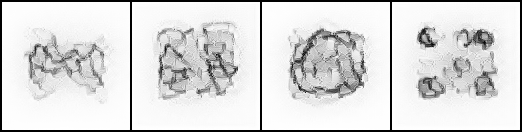
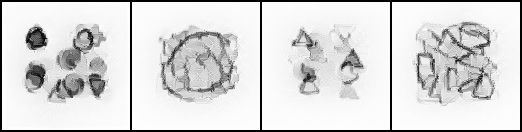
Using CLIP for text embeddings, training epoch 2 minutes and added raw sentences from dataloader

diff --git a/train.py b/train.py
@@ -24,7 +24,7 @@ def main():
         json.dump(tokeniser.vocab, output)
 
     dataset = SentenceToImageDataset("expanded_sentence_image_relationships.csv", tokeniser)
-    dataloader = DataLoader(dataset, batch_size=32, shuffle=True, num_workers=4)
+    dataloader = DataLoader(dataset, batch_size=32, shuffle=True, num_workers=6, pin_memory=True, persistent_workers=True)
 
     device = torch.device("cuda" if torch.cuda.is_available() else "cpu")
     model = TextToImageTransformer(vocab_size=len(tokeniser.vocab)).to(device)
@@ -33,7 +33,7 @@ def main():
     perceptual_loss = PerceptualLoss().to(device)
     clip_loss = CLIPLoss(device).to(device)
 
-    l1_weighting = 0.1 # L1 loss weighting 
+    l1_weighting = 0.0 # L1 loss weighting 
     perceptual_loss_weighting = 1.0 # Perceptual loss weighting
     clip_loss_weighting = 1.0 # Clip loss weighting
     
@@ -58,16 +58,17 @@ def main():
             tokenised_text = data_batch["tokenised_text"].to(device)
             real_left_image = data_batch["left_image"].to(device)
             real_right_image = data_batch["right_image"].to(device)
+            raw_sentences_text = data_batch["raw_sentence"]
 
             predicted_left_image, predicted_right_image = model(tokenised_text)
             l1 = nn.functional.l1_loss(predicted_left_image, real_left_image) + nn.functional.l1_loss(predicted_right_image, real_right_image)
             p_loss = perceptual_loss(predicted_left_image, real_left_image) + perceptual_loss(predicted_right_image, real_right_image)
-            c_loss = clip_loss(predicted_left_image, real_left_image) + clip_loss(predicted_right_image, real_right_image)
+            c_loss = clip_loss(predicted_left_image, raw_sentences_text) + clip_loss(predicted_right_image, raw_sentences_text)
             total_batch_loss = l1_weighting * l1 + perceptual_loss_weighting * p_loss + clip_loss_weighting * c_loss
 
             optimizer.zero_grad()
             total_batch_loss.backward()
-            nn.utils.clip_grad_norm_(model.parameters(), max_norm=1.0) # then max_norm = 5
+            nn.utils.clip_grad_norm_(model.parameters(), max_norm=1.0) # try with norm = 5.0 next
             optimizer.step()
 
             if batch_index % 100 == 0:
@@ -98,14 +99,15 @@ if __name__ == "__main__":
 
 # Hyperparamters to try in order
 
+#Experiment	λ_l1	λ_p	    λ_c
+#Baseline	0.1	    1.0	    1.0	    Current setup
+#1	        0.0	    1.0	    0.0	    No CLIP
+
+# clip makes images slightly clearer
+
 # nn.utils.clip_grad_norm_(model.parameters(), max_norm=5.0) 
 # weight_learner = optim.Adam(model.parameters(), lr=0.0002, betas=(0.5, 0.999))
 # scheduler = optim.lr_scheduler.StepLR(weight_learner, step_size=20, gamma=0.8)
 # scheduler.step()
 
-#Experiment	λ_l1	λ_p	    λ_c
-#Baseline	0.1	    1.0	    1.0	    Current setup
-#A          0.0     1.0     1.0     Without any L1
-#B	        0.3	    1.0	    0.5	    Reduce CLIP
-#C	        0.5	    1.0	    0.8	    Try more L1
-#D	        0.1	    2.0	    0.5	    Much more Perceptual
+# Check that CLIP and VGG are actually doing something meaningful

diff --git a/loss_functions.py b/loss_functions.py
@@ -68,19 +68,24 @@ class CLIPLoss(nn.Module):
         for param in self.clip_model.parameters():
             param.requires_grad = False
 
-    def forward(self, predicted, real):
-        predicted = convert_to_grayscale(predicted)
-        real = convert_to_grayscale(real)
-        combined_batch = torch.cat([predicted, real], dim=0)
+    def forward(self, generated_images, text_descriptions):
+        resized = nn.functional.intepolate(generated_images, size=(224, 224), mode='bilinear', align_corners=False)
+        norm_images = normalize_images(resized, self.CLIP_MEAN, self.CLIP_STD)
         
-        # Resizing to fit CLIP
-        resized = nn.functional.interpolate(combined_batch, size=(224, 224), mode='bilinear', align_corners=False)
-        normalized_images = normalize_images(resized, self.CLIP_MEAN, self.CLIP_STD)
-
-        # Generate Embeddings
-        embeddings = self.clip_model.encode_image(normalized_images)
-        predicted_embeddings, real_embeddings = torch.split(embeddings, predicted.size(0), dim=0)
+        text_tokens = clip.tokenize(text_descriptions, truncate=True).to(generated_images.device)
         
-        # Calculate cosine similarity loss
-        cosine_similarity = nn.functional.cosine_similarity(predicted_embeddings, real_embeddings, dim=-1)
-        return (1 - cosine_similarity).mean()
+        image_embeddings = self.clip_model.encode_image(norm_images)
+        text_embeddings = self.clip_model.encode_text(text_tokens)
+        
+        image_embeddings = image_embeddings / image_embeddings.norm(dim=-1, keepdim=True)
+        text_embeddings = text_embeddings / text_embeddings.norm(dim=-1, keepdim=True)
+        
+        # Calculate cosine similarity
+        clip_softmax_scaler = self.clip_model.logit_scale.exp()
+        cosine_similarities = clip_softmax_scaler * image_embeddings @ text_embeddings.t()
+        
+        # Symmetric contrastive loss
+        targets = torch.arange(len(generated_images), device=generated_images.device)
+        image_loss = nn.functional.cross_entropy(cosine_similarities, targets)
+        text_loss = nn.functional.cross_entropy(cosine_similarities.t(), targets)
+        return (image_loss + text_loss) / 2

diff --git a/generate_images.py b/generate_images.py
@@ -9,9 +9,9 @@ from datetime import datetime
 from PIL import Image
 
 TEST_GENERATOR = True
-# TEXT_TO_GENERATE = "LEFT(GREATERLA(FIGURES,SIZE))"
-# TEXT_TO_GENERATE = "LEFT(MORE(FIGURES,SIZE))"
-TEXT_TO_GENERATE = "RIGHT(EXISTS(SMALL(FIGURES)))"
+# TEXT_TO_GENERATE = "RIGHT(EXACTLY(2,FIGURES))"
+TEXT_TO_GENERATE = "LEFT(MORE(SOLID(FIGURES),OUTLINE(FIGURES)))"
+# TEXT_TO_GENERATE = "RIGHT(EXISTS(SMALL(FIGURES)))"
 
 def generate_and_save_images(model, tokeniser, text, device, output_dir="outputs"):
     model.eval()

diff --git a/dataset_loader.py b/dataset_loader.py
@@ -23,7 +23,8 @@ class SentenceToImageDataset(Dataset):
         return {
             "tokenised_text": torch.tensor(token_indices, dtype=torch.long),
             "left_image": left_image,
-            "right_image": right_image
+            "right_image": right_image,
+            "raw_sentence": row["sentence"]
         }    
 
     def load_and_transform_image(self, image_path):
